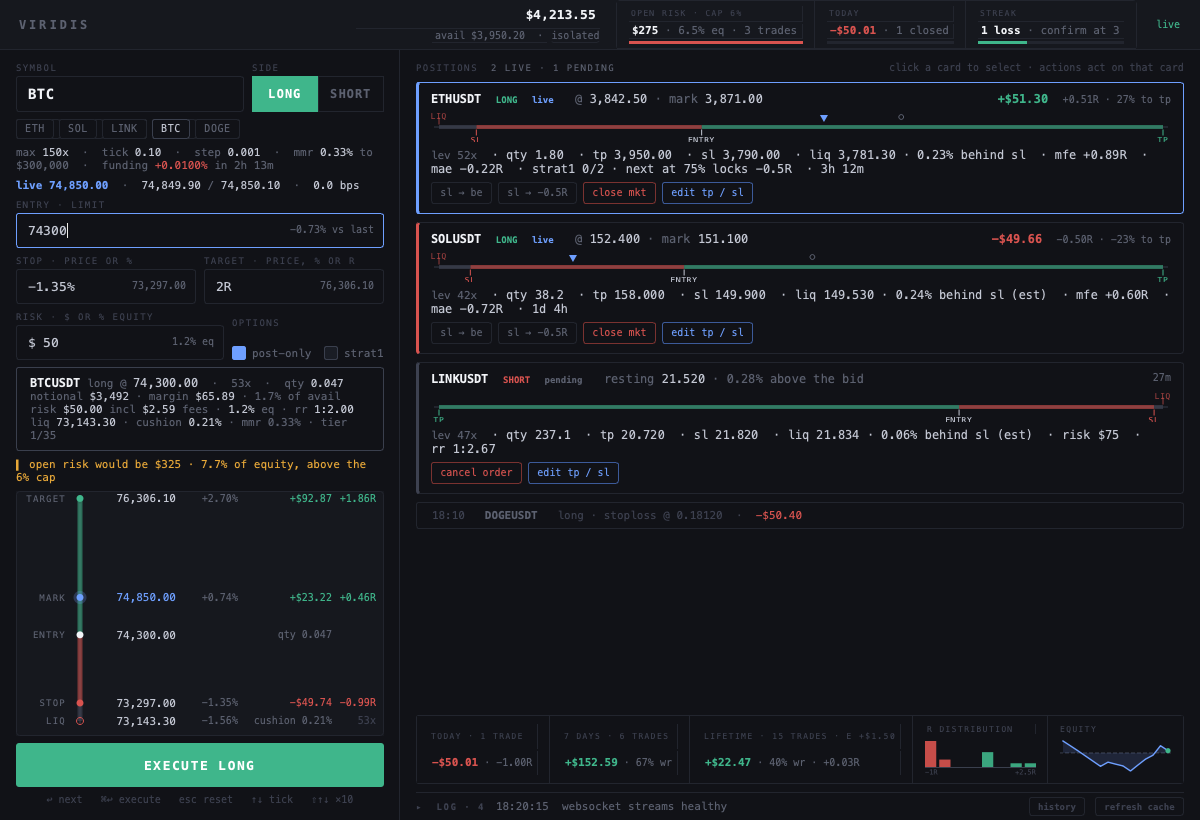
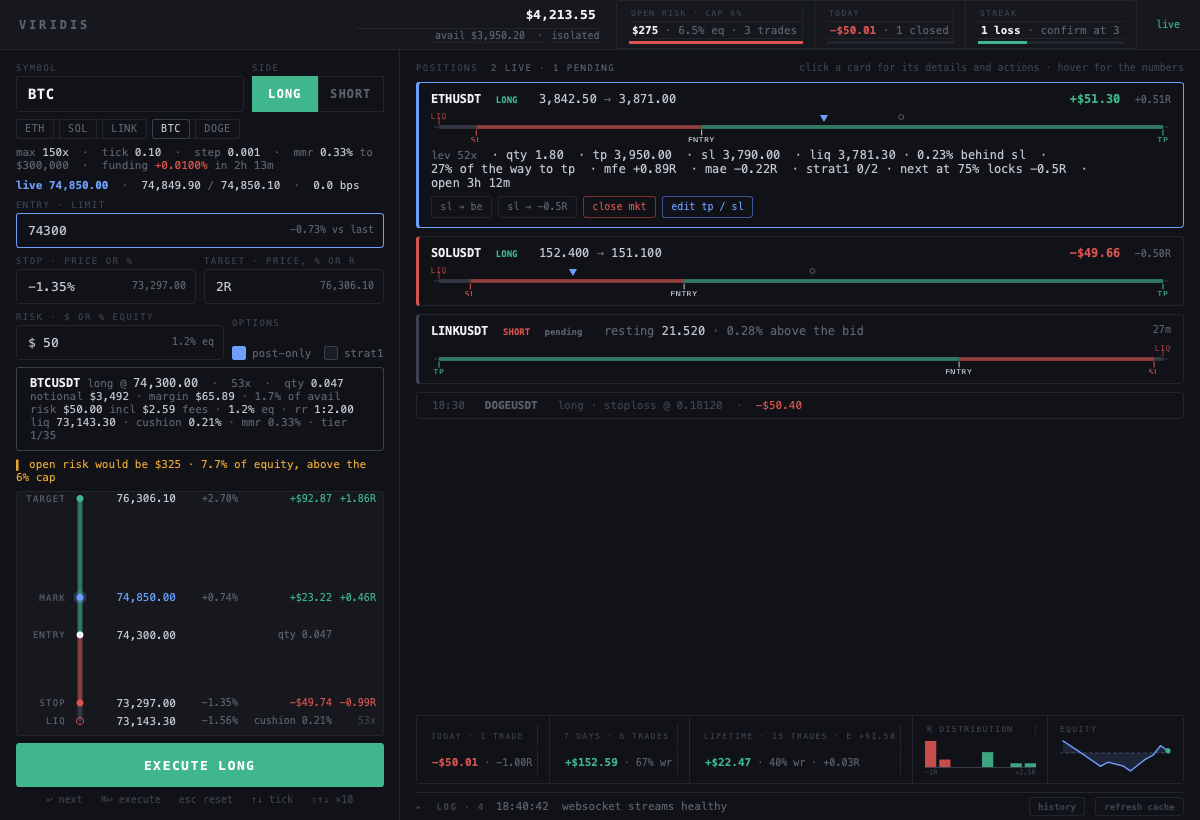
Two-state trade cards; the liquidation cushion becomes LIQ_CUSHION_PCT
- a card at rest is one header line (symbol, side, entry → mark, PnL in
  $ and R) over the mini ladder; the clicked card unfolds its details
  and its actions, only one at a time; hovering any card shows the same
  numbers as a tooltip
- the 0.2% cushion between stop and liquidation is a .env key now
  (LIQ_CUSHION_PCT); documented as the latency buffer it is
- README, design guide and the board screenshot updated

diff --git a/docs/index.html b/docs/index.html
@@ -114,6 +114,16 @@ liq ≈ 74300 × (1 − 1/48 + 0.005) = 73,124  <span class="c">→ 0.23% behind
     <code>liqPrice</code> is tracked and compared to the stop; if it ever sits inside, the log shouts.</p>
   </div>
   <div class="callout info">
+    <h3>What the cushion is for</h3>
+    <p>The stop and the liquidation are both evaluated on mark price, so the stop always triggers first;
+    volatility on the way down cannot reorder them. The cushion (<code>LIQ_CUSHION_PCT</code>, 0.2% by
+    default, plus whatever the integer leverage rounding adds) is the room for the stop's <em>market order</em>
+    to fill before mark can travel on to the liquidation price. It only fails if a single mark step exceeds
+    it during those milliseconds — a flash crash on a major, a cascade on a thin alt. Widening it costs
+    margin and nothing else: on the BTC example 0.5% means 45× instead of 53×, about $12 more locked for
+    the same $50 at risk.</p>
+  </div>
+  <div class="callout info">
     <h3>Why a Mark-Price stop trigger?</h3>
     <p>Liquidation is <em>always</em> evaluated on <strong>Mark Price</strong>. If your stop triggered on
     Last Price, your cushion would be measured between two different rulers — and Last vs Mark diverge
@@ -275,6 +285,7 @@ liq ≈ 74300 × (1 − 1/48 + 0.005) = 73,124  <span class="c">→ 0.23% behind
     <tr><td><code>DEFAULT_RISK_USD</code></td><td><code>100</code></td><td>Default net-loss risk per trade.</td></tr>
     <tr><td><code>FEE_MAKER_RATE</code></td><td><code>0.0002</code></td><td>Maker fee (limit fills) — used in sizing, break-even, journal.</td></tr>
     <tr><td><code>FEE_TAKER_RATE</code></td><td><code>0.00055</code></td><td>Taker fee (market stop / fills).</td></tr>
+    <tr><td><code>LIQ_CUSHION_PCT</code></td><td><code>0.2</code></td><td>Room between the stop and the liquidation price, in % of entry. A latency buffer for the stop's market order, not a volatility buffer; widen it on thin alts.</td></tr>
     <tr><td><code>SL_TRIGGER_BY</code></td><td><code>MarkPrice</code></td><td>Stop trigger reference (<code>MarkPrice</code> or <code>LastPrice</code>).</td></tr>
     <tr><td><code>JOURNAL_BACKFILL_DAYS</code></td><td><code>30</code></td><td>Cold-start history backfill window.</td></tr>
     <tr><td><code>RISK_LEDGER_MAX_AGE_DAYS</code></td><td><code>365</code></td><td>Ledger entries older than this are pruned. Keep it above your longest hold, or a restart loses Strat1 and R on that trade.</td></tr>
@@ -310,11 +321,13 @@ liq ≈ 74300 × (1 − 1/48 + 0.005) = 73,124  <span class="c">→ 0.23% behind
     the dollars at that level and the R. The cushion between liquidation and stop is visible, not implied.</li>
   </ul>
   <h3>Cards</h3>
-  <p>One per active trade: a severity stripe, a mini ladder with liquidation and the max favourable excursion,
-  the cushion behind the stop (exchange-reported once live, estimated before), MFE/MAE in R, Strat1 phase and
-  next step, and inline actions — stop to break-even, stop to −0.5R, close at market, cancel, edit TP/SL.
-  Actions resolve to the core's own trade object, so the next ticker snapshot carries the change instead of
-  reverting it. A stop that would trigger immediately is refused before it is sent.</p>
+  <p>One per active trade. At rest a card is a header — symbol, side, entry → mark, PnL in $ and R — over a
+  mini ladder with stop, target and liquidation. Clicking a card unfolds its details (leverage, quantity, the
+  cushion behind the stop, progress to target, MFE/MAE in R, Strat1 phase, a taker-entry flag) and its
+  actions — stop to break-even, stop to −0.5R, close at market, cancel, edit TP/SL; only one card is
+  unfolded at a time, and hovering any card shows the same numbers as a tooltip. Actions resolve to the
+  core's own trade object, so the next ticker snapshot carries the change instead of reverting it. A stop
+  that would trigger immediately is refused before it is sent.</p>
   <h3>Governance strip</h3>
   <p>Open risk (sum of dollars at the stops across active trades, derived from the bracket for positions the
   app did not place), today's realised PnL against the daily limit, and the loss streak. The caps are

diff --git a/views.py b/views.py
@@ -96,9 +96,11 @@ def local_midnight() -> float:
 
 class TradeCard(QFrame):
     """
-    One active trade: header, mini ladder, stats line, inline actions.
-    Reports through `on_select(key)` and `on_action(key, action, payload)`;
-    actions are "be", "half", "close", "cancel" and "apply" (payload: tp/sl text).
+    One active trade. At rest: a header line and the mini ladder. Selected
+    (clicked): the detail line and the action buttons unfold; the same
+    details show as a tooltip on hover. Reports through `on_select(key)` and
+    `on_action(key, action, payload)`; actions are "be", "half", "close",
+    "cancel" and "apply" (payload: tp/sl text).
     """
 
     def __init__(self, key: str, on_select: Callable[[str], None],
@@ -107,6 +109,7 @@ class TradeCard(QFrame):
         self.key = key
         self._on_select = on_select
         self._on_action = on_action
+        self._expanded = False
         self.setObjectName("card")
         self.setProperty("stripe", "dim")
         self.setProperty("selected", False)
@@ -123,12 +126,15 @@ class TradeCard(QFrame):
         self.mini = MiniLadder()
         lay.addWidget(self.mini)
 
-        self.stats = QLabel("")
-        self.stats.setTextFormat(Qt.TextFormat.RichText)
-        self.stats.setWordWrap(True)
-        lay.addWidget(self.stats)
+        self.details = QLabel("")
+        self.details.setTextFormat(Qt.TextFormat.RichText)
+        self.details.setWordWrap(True)
+        self.details.hide()
+        lay.addWidget(self.details)
 
-        acts = QHBoxLayout()
+        self.actions = QWidget()
+        acts = QHBoxLayout(self.actions)
+        acts.setContentsMargins(0, 0, 0, 0)
         acts.setSpacing(6)
         self.btn_be = self._act("sl → be", "be")
         self.btn_half = self._act("sl → −0.5R", "half")
@@ -139,7 +145,8 @@ class TradeCard(QFrame):
         for b in self._buttons:
             acts.addWidget(b)
         acts.addStretch()
-        lay.addLayout(acts)
+        self.actions.hide()
+        lay.addWidget(self.actions)
 
         self.edit_row = QWidget()
         er = QHBoxLayout(self.edit_row)
@@ -198,9 +205,16 @@ class TradeCard(QFrame):
         self.update()
 
     def set_selected(self, on: bool) -> None:
+        """Selection is also expansion: only the selected card shows details and actions."""
         if bool(self.property("selected")) != on:
             self.setProperty("selected", on)
             self._repolish()
+        if self._expanded != on:
+            self._expanded = on
+            self.details.setVisible(on)
+            self.actions.setVisible(on)
+            if not on:
+                self.hide_edit()
 
     def set_busy(self, on: bool) -> None:
         for b in self._buttons:
@@ -240,28 +254,25 @@ class TradeCard(QFrame):
         def dim(s):
             return span(s, T.TEXT_DIM)
 
-        sym = span(t.symbol, T.WHITE, 12, 600)
-        side_pill = span("LONG" if long else "SHORT", T.POSITIVE if long else T.NEGATIVE, 9, 600)
-        phase_pill = span(t.phase.lower(), T.ACCENT if live else T.TEXT_DIM, 9, 600)
-        head = f"{sym}&nbsp;&nbsp;{side_pill}&nbsp;&nbsp;{phase_pill}&nbsp;&nbsp;&nbsp;"
+        def v(s):
+            return span(s, T.TEXT, weight=500)
+
+        # ── Header: the glance ──
+        head = (f"{span(t.symbol, T.WHITE, 12, 600)}&nbsp;&nbsp;"
+                f"{span('LONG' if long else 'SHORT', T.POSITIVE if long else T.NEGATIVE, 9, 600)}")
+        if t.phase != TradeState.PHASE_LIVE:
+            head += f"&nbsp;&nbsp;{span(t.phase.lower(), T.TEXT_DIM, 9, 600)}"
         right = ""
         if live:
-            head += f"{dim('@')} {px(entry)} {dim('· mark')} {px(mark)}"
+            head += f"&nbsp;&nbsp;&nbsp;{px(entry)} {dim('→')} {px(mark)}"
             if t.phase == TradeState.PHASE_PARTIAL:
                 head += dim(f" · {t.cum_exec_qty or '?'}/{t.entry_qty or '?'} filled")
             if pnl is not None:
-                col = T.POSITIVE if pnl >= 0 else T.NEGATIVE
-                extras = []
+                right = span(fmt_usd(pnl), T.POSITIVE if pnl >= 0 else T.NEGATIVE, 12, 600)
                 if risk:
-                    extras.append(fmt_r(pnl / risk))
-                if tp and entry and mark and tp != entry:
-                    prog = (mark - entry) / (tp - entry) if long else (entry - mark) / (entry - tp)
-                    extras.append(f"{prog * 100:.0f}% to tp")
-                right = span(fmt_usd(pnl), col, 12, 600)
-                if extras:
-                    right += "&nbsp;&nbsp;" + span(" · ".join(extras), T.TEXT_DIM, 10)
+                    right += "&nbsp;&nbsp;" + span(fmt_r(pnl / risk), T.TEXT_DIM, 10)
         else:
-            head += f"{dim('resting')} {px(entry)}"
+            head += f"&nbsp;&nbsp;&nbsp;{dim('resting')} {px(entry)}"
             ref = (ticker or {}).get("ask1Price" if long else "bid1Price")
             if ref and entry:
                 gap = abs(float(ref) - entry) / entry
@@ -274,9 +285,7 @@ class TradeCard(QFrame):
 
         self.mini.set_levels(entry, sl, tp, liq, mark, t.mfe_price if live else None)
 
-        def v(s):
-            return span(s, T.TEXT, weight=500)
-
+        # ── Details: unfold on click, tooltip on hover ──
         parts = [f"lev {v((t.leverage or '--') + 'x')}",
                  f"qty {v(t.qty or t.entry_qty or '--')}",
                  f"tp {v(px(tp))}", f"sl {v(px(sl))}"]
@@ -285,6 +294,9 @@ class TradeCard(QFrame):
             ccol = T.NEGATIVE if cushion <= 0 else (T.AMBER if cushion < 0.001 else T.TEXT)
             parts.append(f"liq {v(px(liq))} · {span(f'{cushion * 100:.2f}%', ccol, weight=500)} behind sl"
                          + (" (est)" if liq_est else ""))
+        if live and tp and entry and mark and tp != entry:
+            prog = (mark - entry) / (tp - entry) if long else (entry - mark) / (entry - tp)
+            parts.append(f"{v(f'{prog * 100:.0f}%')} of the way to tp")
         if live and dist and entry:
             if t.mfe_price:
                 r = (t.mfe_price - entry) / dist if long else (entry - t.mfe_price) / dist
@@ -307,10 +319,11 @@ class TradeCard(QFrame):
             if tp and entry and dist:
                 parts.append(f"rr {v(f'1:{abs(tp - entry) / dist:.2f}')}")
         elif t.opened_at:
-            parts.append(age_str(t.opened_at))
+            parts.append(f"open {age_str(t.opened_at)}")
         # Items wrap as a whole, never in the middle of "mae −0.22R".
         parts = [p.replace(" ", "&nbsp;") for p in parts]
-        self.stats.setText(span(" &nbsp;· ".join(parts), T.TEXT_DIM, 10.5))
+        self.details.setText(span(" &nbsp;· ".join(parts), T.TEXT_DIM, 10.5))
+        self.setToolTip("<span style='font-size:11px;'>" + "<br>".join(parts) + "</span>")
 
         for b in (self.btn_be, self.btn_half, self.btn_close):
             b.setVisible(live)

diff --git a/trading_core.py b/trading_core.py
@@ -1285,9 +1285,10 @@ class TradingCore:
         tier = InstrumentCache.tier_for(rules, notional_usd)
         mmr = tier["mmr"]
         max_exchange_lev = min(rules["maxLev"], tier["maxLev"] or rules["maxLev"])
-        # Add a small cushion for taker fees + slippage (0.2%)
-        fee_cushion = 0.002
-        total_buffer = mmr + fee_cushion
+        # The cushion is a latency buffer, not a volatility one: the stop and
+        # the liquidation both read mark price, so the stop triggers first,
+        # and this is the room for its market order to fill.
+        total_buffer = mmr + config.LIQ_CUSHION_PCT / 100
 
         # Safe leverage: ensures liquidation distance > SL distance
         # liq_distance = initial_margin - mmr = (1/lev) - mmr
@@ -1298,8 +1299,8 @@ class TradingCore:
 
         # Isolated-margin liquidation estimate (conservative, see docs §03),
         # and the room left between it and the stop. By construction the
-        # cushion is ≥ fee_cushion; the exchange's own liqPrice replaces the
-        # estimate once the position is live and is checked against the stop.
+        # cushion is ≥ LIQ_CUSHION_PCT; the exchange's own liqPrice replaces
+        # the estimate once the position is live and is checked against the stop.
         if side == "Buy":
             liq_price = entry * (1 - 1 / target_lev + mmr)
             cushion = (sl - liq_price) / entry

diff --git a/config.py b/config.py
@@ -33,6 +33,12 @@ DEFAULT_RISK_USD: float = float(os.getenv("DEFAULT_RISK_USD", "100.0"))
 FEE_MAKER: float = float(os.getenv("FEE_MAKER_RATE", "0.0002"))   # 0.02%
 FEE_TAKER: float = float(os.getenv("FEE_TAKER_RATE", "0.00055"))  # 0.055%
 
+# Room left between the stop and the liquidation price, in % of entry. Both
+# read mark price, so the stop always triggers first; this is the room for
+# its market order to fill before mark can reach the liquidation price. It
+# only costs margin: widen it on thin alts.
+LIQ_CUSHION_PCT: float = float(os.getenv("LIQ_CUSHION_PCT", "0.2"))
+
 # Price reference that fires the Stop Loss. Liquidation always uses MarkPrice,
 # so triggering the SL on MarkPrice guarantees the SL fires before liquidation
 # (the leverage cushion remains the room for the market SL to fill). Set to

diff --git a/main.py b/main.py
@@ -409,7 +409,7 @@ class MainWindow(QMainWindow):
         self.board_count.setStyleSheet(f"font-size: 9px; letter-spacing: 1.5px; color: {T.TEXT_DIM};")
         head.addWidget(self.board_count)
         head.addStretch()
-        hint = QLabel("click a card to select · actions act on that card")
+        hint = QLabel("click a card for its details and actions · hover for the numbers")
         hint.setStyleSheet(f"font-size: 10px; color: {T.TEXT_MUTED};")
         head.addWidget(hint)
         lay.addLayout(head)

diff --git a/README.md b/README.md
@@ -17,7 +17,7 @@ Every exchange ticket asks for a size and a leverage. Neither is something you k
 1. **Fill the ticket.** Symbol, entry, a stop as a price or a distance (`-0.8%`), an optional target as a price, a percent (`+3%`) or a multiple of the stop distance (`2R`), and the risk in dollars or as a share of equity (`1%`). Arrow keys nudge prices by one tick.
 2. **Read the preview.** It recomputes as you type: quantity, leverage, margin, fees, reward-to-risk, the estimated liquidation price and the cushion between it and your stop. Warnings appear ranked: amber ones ask for a confirmation, red ones block.
 3. **Send.** ⌘Enter opens a confirm sheet with the same numbers and warnings. One API call places a limit entry carrying a limit take-profit and a market stop-loss that triggers on mark price. Post-only is on by default: a limit that would cross the book is cancelled instead of filling as taker.
-4. **Manage.** The trade becomes a card: mark price, PnL in dollars and R, a mini ladder with the liquidation price, the best and worst the trade has been, and the buttons that matter: stop to break-even, stop to −0.5R, edit target or stop, cancel, close at market.
+4. **Manage.** The trade becomes a card: entry, mark, PnL in dollars and R, and a mini ladder with the stop, the target and the liquidation price. Click it and the details unfold, leverage, quantity, cushion, best and worst excursion, with the buttons that matter: stop to break-even, stop to −0.5R, edit target or stop, cancel, close at market. Hover any card for the same numbers.
 5. **Review.** When the trade closes, the journal takes Bybit's closed-PnL record, which is fee-inclusive, and attaches the R-multiple plus maximum favourable and adverse excursion. The strip at the bottom shows today, the last seven days and lifetime.
 
 ## The arithmetic, once
@@ -79,6 +79,7 @@ Everything lives in `.env`. Defaults are sensible for a VIP0 account; the fee ra
 | `DAILY_LOSS_LIMIT_USD` | `0` | Realised loss today at which sending is disabled; 0 turns it off |
 | `LOSS_STREAK_CONFIRM` | `3` | Consecutive losses at which a new trade warns; 0 turns it off |
 | `STRAT1_RATCHET` | `0.75:-0.5,0.90:0` | Strat1 steps as `progress:lockR` pairs |
+| `LIQ_CUSHION_PCT` | `0.2` | Room between the stop and the liquidation price, % of entry; widen it on thin alts, it only costs margin |
 | `SL_TRIGGER_BY` | `MarkPrice` | Stop trigger reference; liquidation uses mark, so keep it |
 | `FEE_MAKER_RATE`, `FEE_TAKER_RATE` | `0.0002`, `0.00055` | Fallback fee rates |
 | `JOURNAL_BACKFILL_DAYS` | `30` | History pulled the first time the journal is empty |
